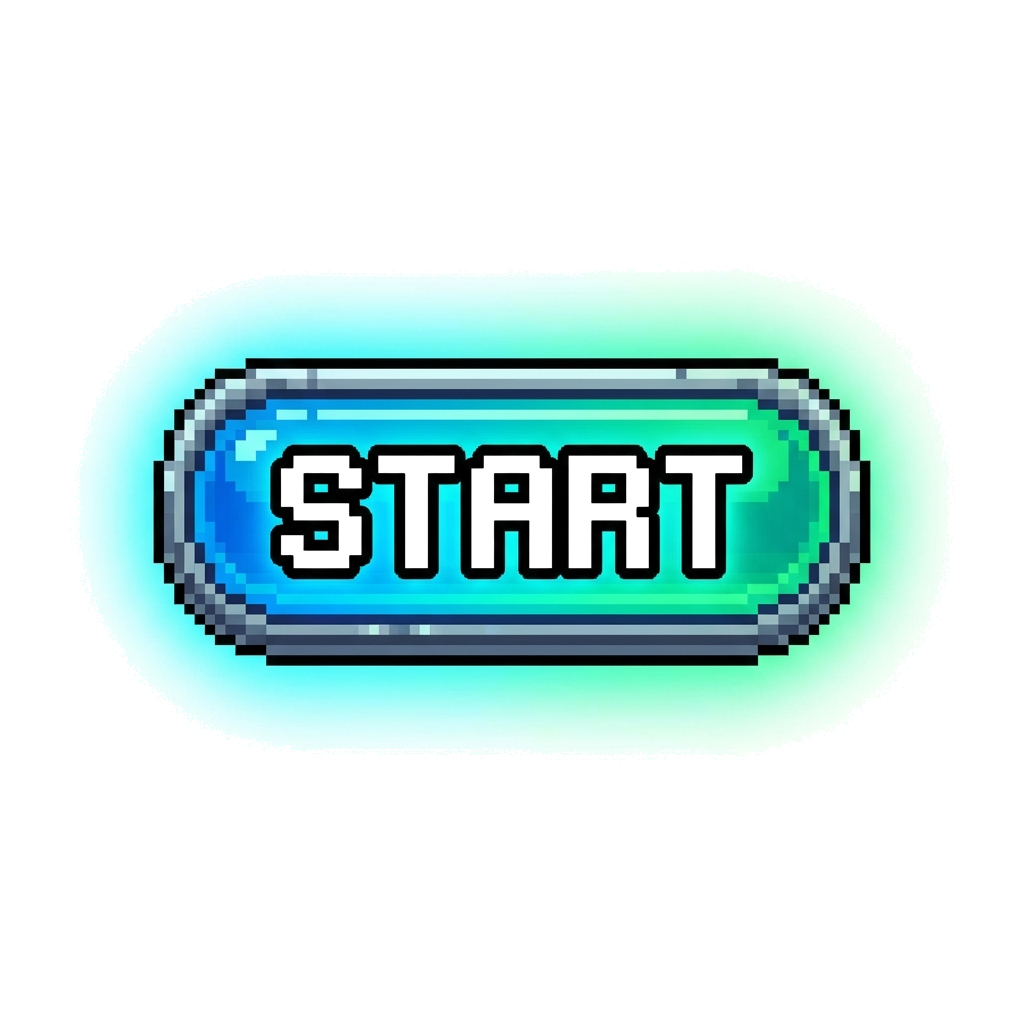
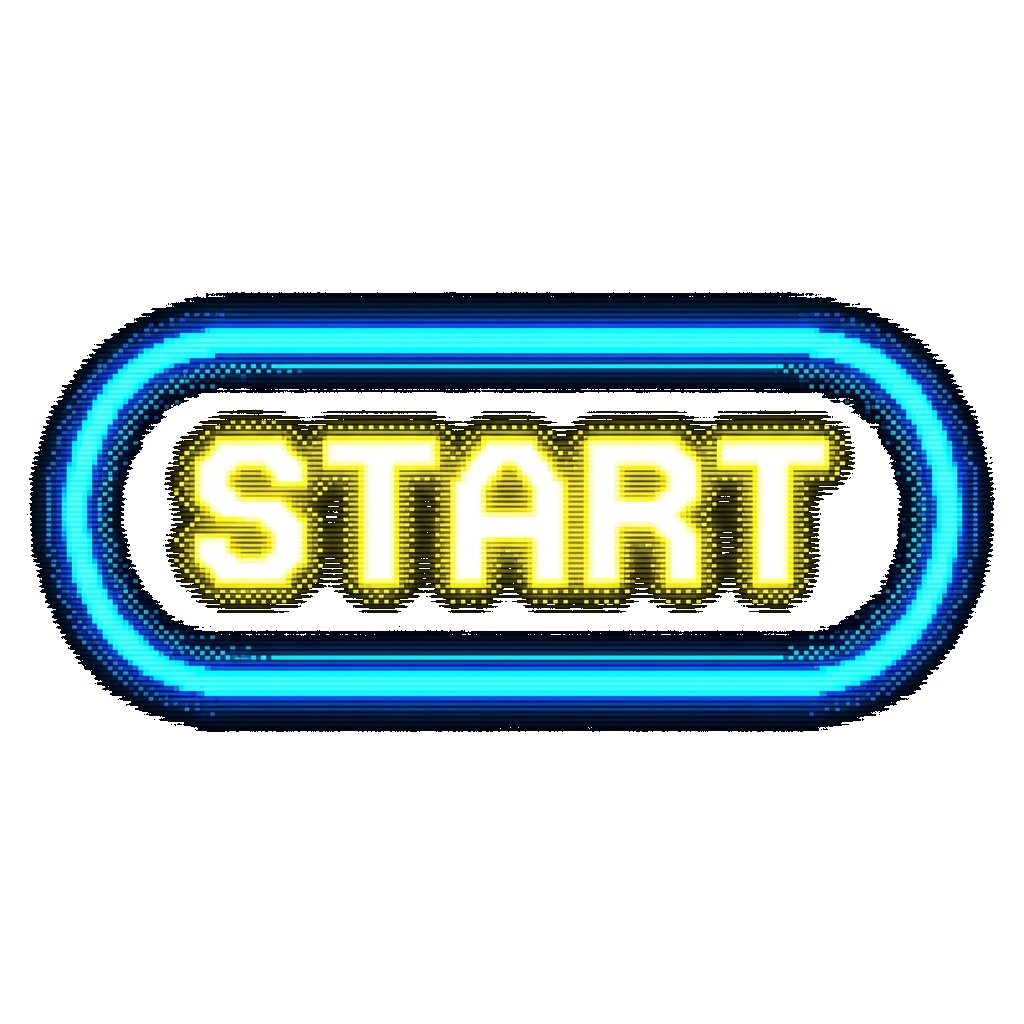
Assets V2: Generated on black background for perfect transparency

diff --git a/lib/game/hud/start_menu_overlay.dart b/lib/game/hud/start_menu_overlay.dart
@@ -1,0 +1,94 @@
+import 'package:flutter/material.dart';
+import '../dino_run_game.dart';
+
+class StartMenuOverlay extends StatefulWidget {
+  final DinoRunGame game;
+  const StartMenuOverlay({Key? key, required this.game}) : super(key: key);
+
+  @override
+  State<StartMenuOverlay> createState() => _StartMenuOverlayState();
+}
+
+class _StartMenuOverlayState extends State<StartMenuOverlay> with SingleTickerProviderStateMixin {
+  late AnimationController _controller;
+
+  @override
+  void initState() {
+    super.initState();
+    // 20s for a slow, smooth loop.
+    _controller = AnimationController(vsync: this, duration: const Duration(seconds: 20))..repeat();
+  }
+
+  @override
+  void dispose() {
+    _controller.dispose();
+    super.dispose();
+  }
+
+  @override
+  Widget build(BuildContext context) {
+    return Stack(
+      children: [
+        // 1. Moving Background
+        AnimatedBuilder(
+          animation: _controller,
+          builder: (context, child) {
+            // Diagonal scroll
+            return Stack(
+              children: [
+                Positioned.fill(
+                  child: Image.asset(
+                    'assets/images/intro_bg_checkerboard.png',
+                    repeat: ImageRepeat.repeat,
+                    alignment: Alignment(
+                      // Loop from -1.0 to 1.0 isn't enough for seamless wrap without careful math.
+                      // Easier way: Use Container with DecorationImage and Alignment.
+                      // Alignment(x, y): As x changes, it shifts visible window.
+                      // If image is "repeat", alignment shifts the phase.
+                      _controller.value * 2 - 1, // -1 to 1
+                      _controller.value * 2 - 1
+                    ),
+                  ),
+                ),
+              ],
+            );
+          },
+        ),
+        
+        // 2. Dark Overlay for better legibility
+        Container(color: Colors.black.withOpacity(0.3)),
+
+        // 3. Content
+        Center(
+          child: Column(
+            mainAxisSize: MainAxisSize.min,
+            children: [
+              Image.asset(
+                'assets/images/title_retro.png',
+                width: MediaQuery.of(context).size.width * 0.8,
+                height: 150,
+                fit: BoxFit.contain,
+              ),
+              const SizedBox(height: 50),
+              GestureDetector(
+                onTap: () {
+                  widget.game.overlays.remove('StartMenu');
+                  widget.game.overlays.add('CharacterSelection');
+                  // Do not stop controller here; widget will be disposed.
+                },
+                child: MouseRegion(
+                  cursor: SystemMouseCursors.click,
+                  child: Image.asset(
+                    'assets/images/start_button_retro.png',
+                    width: 200,
+                    fit: BoxFit.contain,
+                  ),
+                ),
+              ),
+            ],
+          ),
+        ),
+      ],
+    );
+  }
+}

diff --git a/lib/main.dart b/lib/main.dart
@@ -3,6 +3,7 @@ import 'package:flutter/material.dart';
 
 import 'game/dino_run_game.dart';
 import 'game/hud/character_selection_overlay.dart';
+import 'game/hud/start_menu_overlay.dart';
 
 void main() {
   runApp(
@@ -24,40 +25,7 @@ class DinoRunApp extends StatelessWidget {
       game: DinoRunGame(),
       overlayBuilderMap: {
         'StartMenu': (BuildContext context, DinoRunGame game) {
-          return Center(
-            child: Container(
-              padding: const EdgeInsets.all(20),
-              // Optional: Transparent background or remove decoration
-              child: Column(
-                mainAxisSize: MainAxisSize.min,
-                children: [
-                   // Title
-                   Image.asset(
-                     'assets/images/title_retro.png',
-                     width: MediaQuery.of(context).size.width * 0.8, // Responsive width
-                     height: 150,
-                     fit: BoxFit.contain,
-                   ),
-                  const SizedBox(height: 50),
-                  // Retro Button
-                  GestureDetector(
-                    onTap: () {
-                      game.overlays.remove('StartMenu');
-                      game.overlays.add('CharacterSelection');
-                    },
-                    child: MouseRegion( // Optional hover effect helper if needed
-                      cursor: SystemMouseCursors.click,
-                      child: Image.asset(
-                        'assets/images/start_button_retro.png',
-                        width: 200,
-                        fit: BoxFit.contain,
-                      ),
-                    ),
-                  ),
-                ],
-              ),
-            ),
-          );
+          return StartMenuOverlay(game: game);
         },
         'GameOverMenu': (BuildContext context, DinoRunGame game) {
           return Center(

diff --git a/fix_assets.py b/fix_assets.py
@@ -1,50 +1,80 @@
 from PIL import Image
 import os
 
-def make_transparent(image_path):
+def clean_black_bg(image_path):
+    # Logic: Remove pure black and near-black background
     try:
         img = Image.open(image_path)
         img = img.convert("RGBA")
         datas = img.getdata()
-
         new_data = []
-        # Green screen removal
-        # Typical green screen is (0, 255, 0) or similar. 
-        # Let's count corners to find bg or just target green.
-        # User said "green background".
-        
-        # Let's check for "greenish" pixels or exact green? 
-        # Often pixel art uses specific palette index. 
-        # Let's sample top-left.
-        bg_color = img.getpixel((0, 0))
-        # print(f"BG Color: {bg_color}")
 
         for item in datas:
-            # Distance from background color
-            dist = abs(item[0] - bg_color[0]) + abs(item[1] - bg_color[1]) + abs(item[2] - bg_color[2])
-            is_bg = dist < 20 # Tolerance
-
-            # Green Screen (Bright Green)
-            # R < 100, G > 200, B < 100
-            is_green = (item[0] < 100 and item[1] > 200 and item[2] < 100)
+            r, g, b, a = item
+            if a == 0:
+                new_data.append(item)
+                continue
             
-            # White/Light check for button cleanup (optional, careful with lightning bolt)
-            # Only if it's NOT the button icon (which is white). 
-            # If we assume black background for the new button, we strictly remove black.
-            
-            if is_bg or is_green:
+            # Remove Green/Magenta (standard safety)
+            if (r < 50 and g > 200 and b < 50) or (r > 200 and g < 50 and b > 200):
                 new_data.append((255, 255, 255, 0))
+                continue
+
+            # Remove Black Background
+            # Tolerance: r,g,b < 15. This is very safe for bright neon assets.
+            if r < 15 and g < 15 and b < 15:
+                 new_data.append((255, 255, 255, 0))
             else:
                 new_data.append(item)
 
         img.putdata(new_data)
         img.save(image_path, "PNG")
-        print(f"Processed {image_path}")
+        print(f"Cleaned Black BG: {image_path}")
     except Exception as e:
-        print(f"Failed to process {image_path}: {e}")
+        print(f"Error Black BG: {e}")
+
+def clean_generic(image_path):
+    # Standard cleaner for other assets
+    try:
+        img = Image.open(image_path)
+        img = img.convert("RGBA")
+        datas = img.getdata()
+        new_data = []
+        for item in datas:
+            r, g, b, a = item
+            if a == 0:
+                new_data.append(item)
+                continue
+            if (r < 100 and g > 200 and b < 100) or (r > 200 and g < 50 and b > 200):
+                 new_data.append((255, 255, 255, 0))
+            elif r > 240 and g > 240 and b > 240:
+                 new_data.append((255, 255, 255, 0))
+            else:
+                new_data.append(item)
+        img.putdata(new_data)
+        img.save(image_path, "PNG")
+        print(f"Cleaned Generic: {image_path}")
+    except Exception as e:
+        print(f"Error Generic: {e}")
 
 assets_dir = r"c:\Users\Janosos\Desktop\Janosos Game\assets\images"
-files = ["heart_indicator.png", "tank_shield_icon.png", "ability_button.png", "title_retro.png", "start_button_retro.png", "bullet.png"]
 
-for f in files:
-    make_transparent(os.path.join(assets_dir, f))
+# Dispatcher
+files = {
+    # Title and Button now use Black BG cleaner
+    "title_retro.png": clean_black_bg,
+    "start_button_retro.png": clean_black_bg,
+    
+    # Bullet typically has grey artifacts, black cleaner might work if it was generated on black?
+    # No, bullet was existing. Let's stick to generic or the previous grey cleaner if we had kept it.
+    # But for now let's assume bullet is fine or use generic. 
+    # Use generic for bullet to avoid breaking it if it has dark greys inside.
+    "bullet.png": clean_generic, 
+    
+    "heart_indicator.png": clean_generic,
+    "tank_shield_icon.png": clean_generic,
+    "ability_button.png": clean_generic
+}
+
+for f, cleaner in files.items():
+    cleaner(os.path.join(assets_dir, f))

diff --git a/inspect_colors.py b/inspect_colors.py
@@ -1,0 +1,28 @@
+from PIL import Image
+import os
+
+assets_dir = r"c:\Users\Janosos\Desktop\Janosos Game\assets\images"
+files = ["title_retro.png", "bullet.png"]
+
+for f in files:
+    path = os.path.join(assets_dir, f)
+    try:
+        img = Image.open(path)
+        img = img.convert("RGBA")
+        width, height = img.size
+        
+        # Check corners and a few adjacent pixels to detect checkerboard
+        points = [
+            (0, 0), (10, 0), (0, 10), (10, 10), # Top Left area
+            (width-1, 0), (width-11, 0), # Top Right area
+            (0, height-1), # Bottom Left
+        ]
+        
+        print(f"--- {f} ---")
+        for p in points:
+            if p[0] < width and p[1] < height:
+                pixel = img.getpixel(p)
+                print(f"Pixel at {p}: {pixel}")
+                
+    except Exception as e:
+        print(f"Error reading {f}: {e}")
